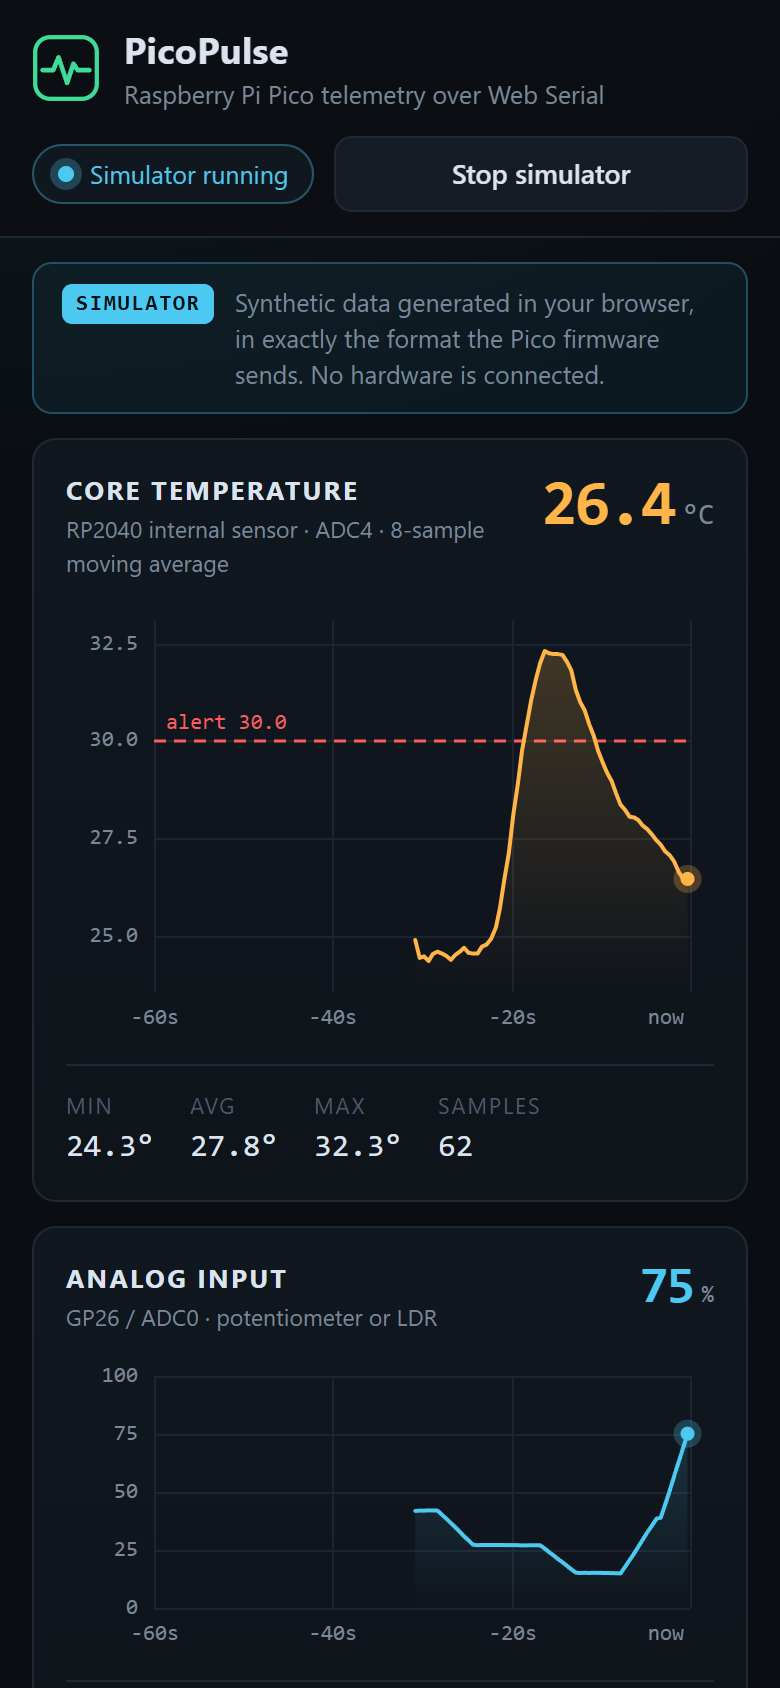
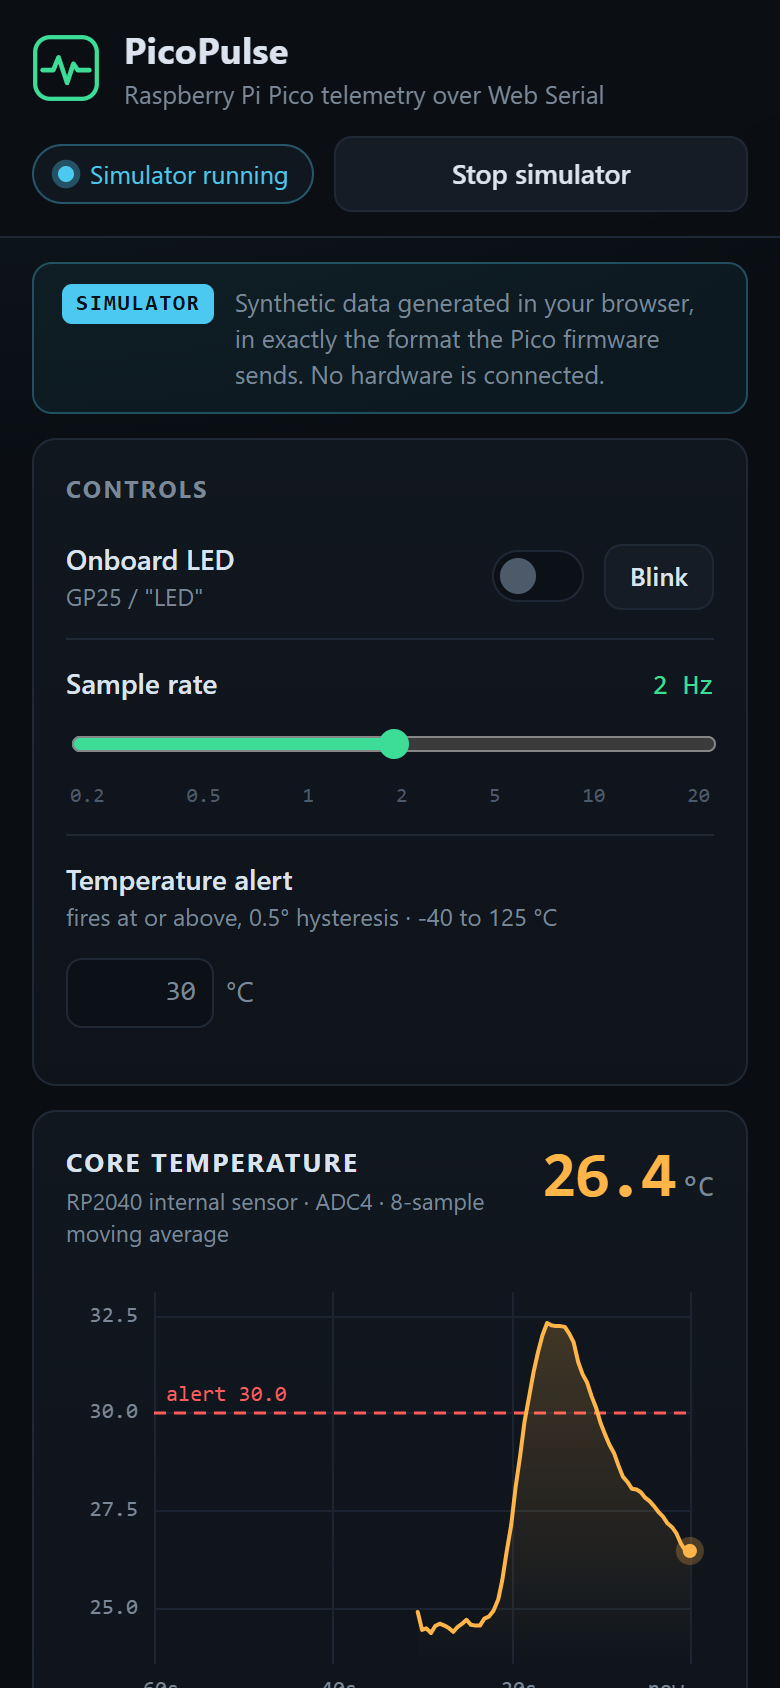
Web: Controls above the charts on phones, feedback when the picker is cancelled
- Under 720 px the columns flow as one list with the Controls card first,
  instead of below all three charts.
- Closing the Web Serial device picker now says 'No device selected' in the
  status pill and the event log (informational, not an error).
- Mobile screenshot and test count in the README updated.

diff --git a/web/src/main.ts b/web/src/main.ts
@@ -111,8 +111,13 @@ async function connectSerial(): Promise<void> {
   try {
     await serial.request();
   } catch (err) {
-    // The user closed the port picker - not an error worth shouting about.
-    if (err instanceof DOMException && err.name === 'NotFoundError') return;
+    // The user closed the port picker: not an error, but say what happened.
+    if (err instanceof DOMException && err.name === 'NotFoundError') {
+      hideError();
+      setStatus('idle', 'No device selected');
+      logEvent('info', 'No device selected. Press Connect Pico to choose a port, or run the simulator.');
+      return;
+    }
     showError(`Could not open the port picker: ${errorText(err)}`);
     return;
   }

diff --git a/web/src/style.css b/web/src/style.css
@@ -807,6 +807,18 @@ input[type='range']:disabled {
     display: flex;
     flex-direction: column;
   }
+  /* Phones: one column, with Controls before the charts instead of after all of them. */
+  .layout {
+    display: flex;
+    flex-direction: column;
+  }
+  .col-main,
+  .col-side {
+    display: contents;
+  }
+  #card-controls {
+    order: -1;
+  }
   .readout {
     font-size: 32px;
   }

diff --git a/README.md b/README.md
@@ -174,7 +174,7 @@ What helps, and what does not:
 ## Tests
 
 ```bash
-cd web && npm test                                  # Vitest: 69 tests
+cd web && npm test                                  # Vitest: 74 tests
 cd web && npm run build                             # type-check (tsc) + production build
 python -m unittest discover -s firmware/tests -v    # 28 firmware tests (stubbed hardware)
 python -m py_compile firmware/main.py firmware/examples/mqtt_picow.py
@@ -281,7 +281,7 @@ picopulse/
 │   │   ├── lineParser.ts       # chunks -> lines
 │   │   ├── protocol.ts         # message types, validation, command encoding
 │   │   ├── simulator.ts        # fake Pico speaking the same protocol
-│   │   ├── stats.ts            # ring buffers, min/avg/max, threshold alert
+│   │   ├── stats.ts            # ring buffers, min/avg/max, threshold alert + limit validation
 │   │   ├── chart.ts            # canvas time-series chart
 │   │   ├── csv.ts              # CSV export
 │   │   └── style.css
